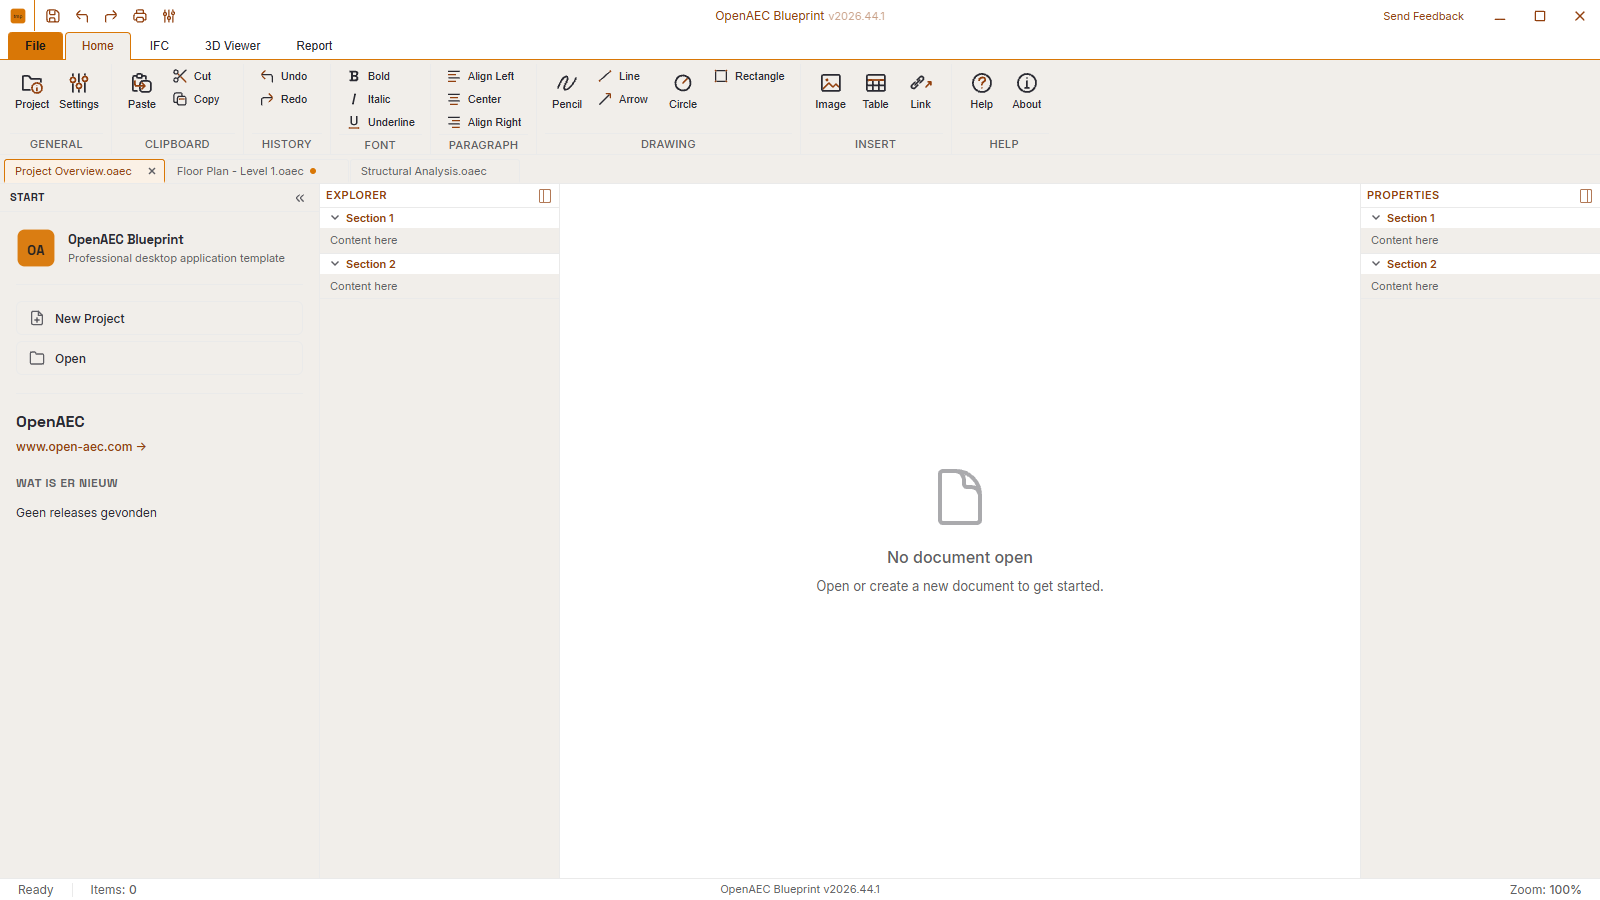
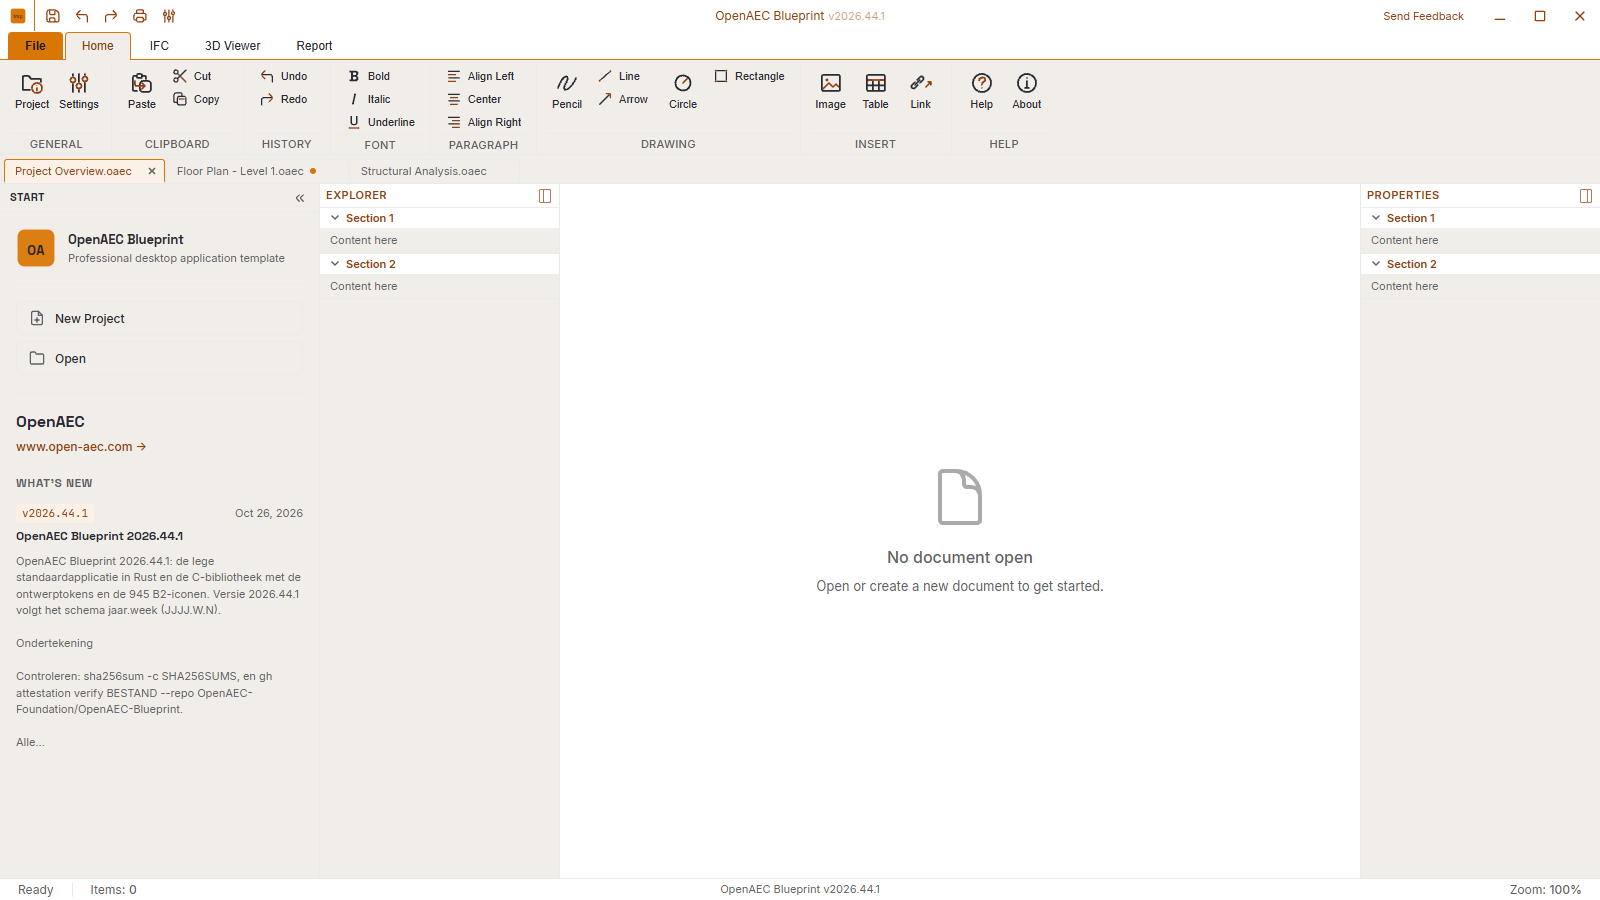
Translate the start panel of the Tauri template

Changed region(s): [[0.0, 0.5289, 0.1875, 0.6844], [0.0, 0.7467, 0.1562, 0.8089], [0.1562, 0.56, 0.1875, 0.5911]]

diff --git a/style-book/project-templates/Tauri+React/src/components/welcome/ReleaseNotesPanel.tsx b/style-book/project-templates/Tauri+React/src/components/welcome/ReleaseNotesPanel.tsx
@@ -1,4 +1,5 @@
 import { useEffect, useState } from "react";
+import { useTranslation } from "react-i18next";
 import "./ReleaseNotesPanel.css";
 
 interface Release {
@@ -9,7 +10,7 @@ interface Release {
   html_url: string;
 }
 
-const REPO = "OpenAEC-Foundation/OpenAEC-style-book";
+const REPO = "OpenAEC-Foundation/OpenAEC-Blueprint";
 const CACHE_KEY = "openaec-releases-cache-v1";
 const CACHE_TTL_MS = 6 * 60 * 60 * 1000;
 
@@ -20,11 +21,12 @@ const FALLBACK_RELEASES: Release[] = [
     name: "Initial OpenAEC desktop template",
     body: "Ribbon UI, multi-tenant report generation, IFC viewer, 3D viewer, recent files, MCP server, multi-window with drag-out tabs.",
     published_at: "2026-05-12T00:00:00Z",
-    html_url: "https://github.com/OpenAEC-Foundation/OpenAEC-style-book/releases",
+    html_url: "https://github.com/OpenAEC-Foundation/OpenAEC-Blueprint/releases",
   },
 ];
 
 export function ReleaseNotesPanel() {
+  const { t, i18n } = useTranslation();
   const [releases, setReleases] = useState<Release[] | null>(null);
   const [error, setError] = useState<string | null>(null);
 
@@ -81,12 +83,12 @@ export function ReleaseNotesPanel() {
       </div>
 
       <div className="welcome-releases">
-        <h3>Wat is er nieuw</h3>
+        <h3>{t("welcome.whatsNew")}</h3>
         {error && !releases && (
-          <p className="welcome-error">Kan release notes niet laden ({error})</p>
+          <p className="welcome-error">{t("welcome.releasesError", { error })}</p>
         )}
-        {!releases && !error && <p className="welcome-loading">Laden…</p>}
-        {releases?.length === 0 && <p>Geen releases gevonden</p>}
+        {!releases && !error && <p className="welcome-loading">{t("welcome.loading")}</p>}
+        {releases?.length === 0 && <p>{t("welcome.noReleases")}</p>}
         {releases?.map((r) => (
           <article key={r.tag_name} className="welcome-release">
             <header>
@@ -99,7 +101,7 @@ export function ReleaseNotesPanel() {
                 {r.tag_name}
               </a>
               <time className="welcome-release-date">
-                {new Date(r.published_at).toLocaleDateString("nl-NL", {
+                {new Date(r.published_at).toLocaleDateString(i18n.language, {
                   year: "numeric",
                   month: "short",
                   day: "numeric",
@@ -117,6 +119,13 @@ export function ReleaseNotesPanel() {
 
 function truncate(s: string, n: number): string {
   if (!s) return "";
-  const cleaned = s.replace(/^#+\s+/gm, "").replace(/\n{3,}/g, "\n\n").trim();
+  // Release notes are Markdown; show them as plain text, without tables.
+  const cleaned = s
+    .replace(/^\s*\|.*$/gm, "")
+    .replace(/^#+\s+/gm, "")
+    .replace(/\[([^\]]*)\]\([^)]*\)/g, "$1")
+    .replace(/(\*\*|__|`)/g, "")
+    .replace(/\n{3,}/g, "\n\n")
+    .trim();
   return cleaned.length > n ? cleaned.slice(0, n).trim() + "…" : cleaned;
 }

diff --git a/style-book/project-templates/Tauri+React/src/components/welcome/StartSidebar.tsx b/style-book/project-templates/Tauri+React/src/components/welcome/StartSidebar.tsx
@@ -131,13 +131,14 @@ export function StartSidebar({
 
 /** Vertical collapsed tab — shown when the sidebar is closed. */
 export function StartSidebarCollapsedTab({ onOpen }: { onOpen: () => void }) {
+  const { t } = useTranslation();
   return (
     <button
       className="start-sidebar-collapsed-tab"
       onClick={onOpen}
-      title="Start openen"
+      title={t("welcome.openStart")}
     >
-      <span>Start</span>
+      <span>{t("welcome.start")}</span>
     </button>
   );
 }

diff --git a/NOTES.md b/NOTES.md
@@ -60,7 +60,7 @@ Gedeeld kladblok voor ChatGPT/Codex, Claude en de gebruiker. Werkwijze staat in 
 
 ## Open punten
 
-- **README-standaard, 2026-10-29**: vastgesteld; uitrol naar elke repository in [#38](https://github.com/OpenAEC-Foundation/OpenAEC-Blueprint/issues/38). In de Tauri-sjabloon staat "Wat is er nieuw / Geen releases gevonden" vast in het Nederlands, ook als de taal Engels is (zichtbaar in de browserbeelden).
+- **README-standaard, 2026-10-29**: vastgesteld; uitrol naar elke repository in [#38](https://github.com/OpenAEC-Foundation/OpenAEC-Blueprint/issues/38).
 
 - **OpenPGP-sleutel van de organisatie, 2026-10-26**: Nino maakt de sleutel voor Linux-releases met het **voorlopige** adres `nino@open-aec.com`; de gebruiker wil dit later aanpassen. Aanpassen kan zonder nieuwe sleutel (nieuwe UID toevoegen met de reservekopie van de hoofdsleutel, oude intrekken); vingerafdruk en GitHub-geheimen blijven gelijk.
 
@@ -242,6 +242,7 @@ Gedeeld kladblok voor ChatGPT/Codex, Claude en de gebruiker. Werkwijze staat in 
 - Volgorde van het werk: ontwerpen in de Style Repo, dan bibliotheek 0.4 bouwen, dan tools ombouwen, te beginnen met Open Calc Studio.
 
 ## Logboek
+- 2026-10-29 **Claude**: Tauri-sjabloon: vaste Nederlandse teksten in het startpaneel via i18n (Wat is er nieuw, laden, foutmelding, geen releases, Start-tab; datum in de taal van de app). Het paneel haalde releases bij de oude repo `OpenAEC-style-book` (geen releases) en haalt ze nu bij OpenAEC-Blueprint; Markdown in releasenotes wordt platte tekst. Browserbeelden en README-beelden opnieuw gemaakt (ook de Rust-renders uit `68e13720` meegenomen). GitHub-beschrijving en website van de repo bijgewerkt. `tsc --noEmit`, `sync_tauri_template.py --check` en `build_readme_images.py --check` groen.
 - 2026-10-29 **Claude**: #36 gesloten. #27 tekstgrootte: `text-size-setting` in de tokens (Compact 11/11/12/15/20 rij 24, Standaard = 0.4, Groot 12/14/15/18/26 rij 32); generator schrijft `TextSize`/`TextSizes` en `data-oa-text`; `Look::with_text_size` en `look.text` in de hele bibliotheek (55 vaste maten vervangen, rijhoogtes mee); nieuw `design::display` bewaart thema, werkruimte, statusbalk en tekstgrootte in `weergave.json`; `blueprint` en de galerij hebben de instelling; webcomponenten volgen `--oa-row`; Tauri-sjabloon: Uiterlijk → Tekstgrootte. Alle controles, `cargo test --workspace` en `cargo package` groen; Tauri-sjabloon in het browserpaneel getest.
 
 - 2026-10-29 **Claude**: README-standaard op verzoek van de gebruiker vastgesteld als eis voor elke OpenAEC-repository; de Blueprint-README is het voorbeeld. Uitrol naar de 17 apps uit APP-OVERZICHT.md en een gedeelde controle in `conventions` als issue #38. Gecommit en naar main gepusht.
